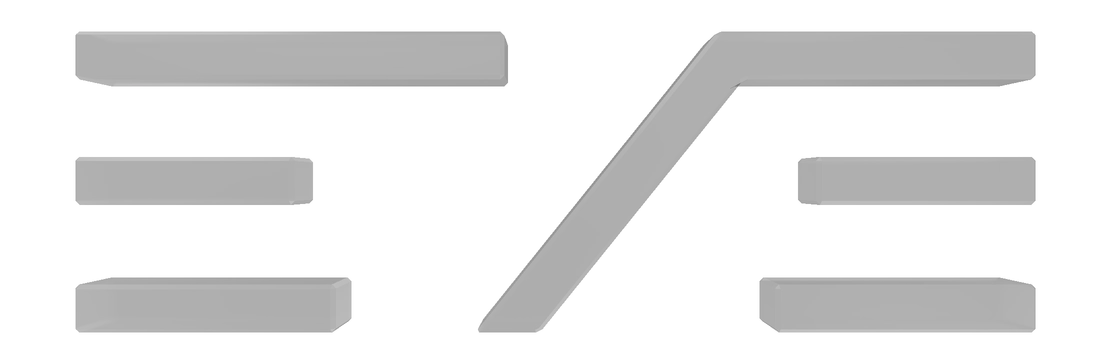
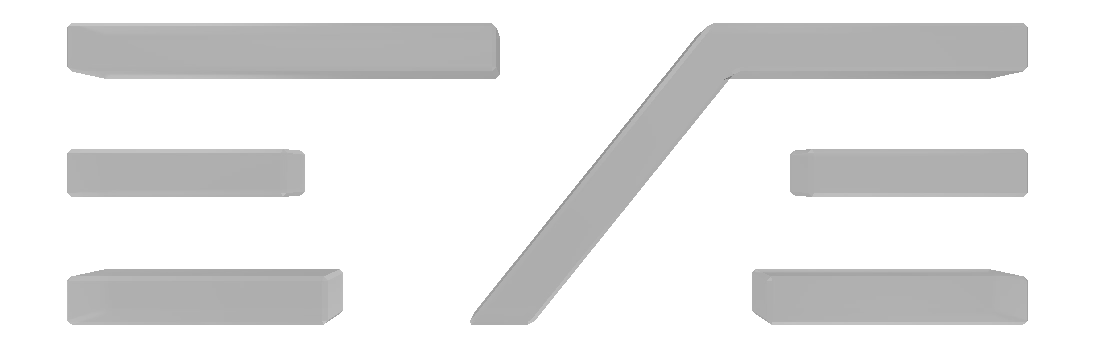
Bake eve fallback without bloom padding

diff --git a/apps/docs/scripts/render-eve-5.ts b/apps/docs/scripts/render-eve-5.ts
@@ -8,8 +8,10 @@
 //     -e VK_ICD_FILENAMES=/usr/share/vulkan/icd.d/lvp_icd.json \
 //     -e LIBGL_ALWAYS_SOFTWARE=1 \
 //     -e EVE_LOGO_RENDER_THEME=dark \
-//     -e EVE_LOGO_RENDER_WIDTH=2222 \
-//     -e EVE_LOGO_RENDER_HEIGHT=728 \
+//     -e EVE_LOGO_RENDER_WIDTH=1095 \
+//     -e EVE_LOGO_RENDER_HEIGHT=348 \
+//     -e EVE_LOGO_RENDER_PADDING=0 \
+//     -e EVE_LOGO_RENDER_BLOOM=0 \
 //     browser-webgpu-lab:native-vgpu-node \
 //     bash -lc 'xvfb-run -a bash -lc "NODE_OPTIONS=--loader=./scripts/wgsl-node-loader.mjs ./node_modules/.bin/tsx scripts/render-eve-5.ts"'
 //
@@ -17,9 +19,9 @@
 // Convert the generated tmp/eve-5-renders/<run>/output.png to the desired
 // public/eve-5/fallback-<theme>.webp with ImageMagick from the same container.
 // Set EVE_LOGO_RENDER_THEME=light|dark and EVE_LOGO_RENDER_WIDTH/HEIGHT when
-// baking production fallbacks. For a 1111x364 CSS canvas on DPR 2 screens,
-// render at 2222x728 and downsample the WebP to 1111x364 so the fixed 16px
-// bloom padding matches the live canvas in CSS pixels.
+// baking production fallbacks. Fallback images are content-only: render without
+// bloom or padding, then place them inside the padded canvas box in CSS so the
+// animated shader appears to "turn on" around the same logo geometry.
 
 import { createHash } from "node:crypto";
 import { readFile, mkdir, writeFile } from "node:fs/promises";
@@ -40,11 +42,13 @@ import {
 const RUN_ID = new Date().toISOString().replaceAll(":", "-").replace(".", "-");
 const OUT_DIR = resolve(process.cwd(), "tmp/eve-5-renders", RUN_ID);
 const FORMAT: GPUTextureFormat = "rgba8unorm";
-const OUTPUT_WIDTH = readPositiveIntegerEnv("EVE_LOGO_RENDER_WIDTH", 1111);
-const OUTPUT_HEIGHT = readPositiveIntegerEnv("EVE_LOGO_RENDER_HEIGHT", 364);
-const LOGICAL_WIDTH = Math.max(1, OUTPUT_WIDTH - BLOOM_RADIUS * 2);
-const LOGICAL_HEIGHT = Math.max(1, OUTPUT_HEIGHT - BLOOM_RADIUS * 2);
-const PADDED_SIZE = getPaddedRenderSize(LOGICAL_WIDTH, LOGICAL_HEIGHT);
+const PADDING_RADIUS = readNonNegativeIntegerEnv("EVE_LOGO_RENDER_PADDING", 0);
+const BLOOM_ENABLED = readBooleanEnv("EVE_LOGO_RENDER_BLOOM", false);
+const OUTPUT_WIDTH = readPositiveIntegerEnv("EVE_LOGO_RENDER_WIDTH", 1095, PADDING_RADIUS * 2);
+const OUTPUT_HEIGHT = readPositiveIntegerEnv("EVE_LOGO_RENDER_HEIGHT", 348, PADDING_RADIUS * 2);
+const LOGICAL_WIDTH = Math.max(1, OUTPUT_WIDTH - PADDING_RADIUS * 2);
+const LOGICAL_HEIGHT = Math.max(1, OUTPUT_HEIGHT - PADDING_RADIUS * 2);
+const PADDED_SIZE = getPaddedRenderSize(LOGICAL_WIDTH, LOGICAL_HEIGHT, PADDING_RADIUS);
 const WIDTH = PADDED_SIZE.width;
 const HEIGHT = PADDED_SIZE.height;
 const THEME = readThemeEnv();
@@ -69,7 +73,7 @@ async function main() {
   let renderer: ReturnType<typeof createEve5Renderer> | undefined;
 
   try {
-    renderer = createEve5Renderer(app.device, FORMAT, mesh, { theme: THEME });
+    renderer = createEve5Renderer(app.device, FORMAT, mesh, { theme: THEME, paddingRadius: PADDING_RADIUS, bloom: BLOOM_ENABLED });
     const output = await renderView(renderer, app.device, DEFAULT_CONTROLS, "output.png");
     await renderView(renderer, app.device, { ...DEFAULT_CONTROLS, yaw: -0.49, pitch: 0.31 }, "rotated.png");
     await renderView(renderer, app.device, { ...DEFAULT_CONTROLS, wireframe: true }, "wireframe.png");
@@ -79,8 +83,10 @@ async function main() {
       outDir: OUT_DIR,
       dimensions: { width: WIDTH, height: HEIGHT, format: FORMAT, theme: THEME },
       bloom: {
-        radius: BLOOM_RADIUS,
-        strength: BLOOM_STRENGTH,
+        enabled: BLOOM_ENABLED,
+        runtimeRadius: BLOOM_RADIUS,
+        radius: PADDING_RADIUS,
+        strength: BLOOM_ENABLED ? BLOOM_STRENGTH : 0,
         threshold: BLOOM_THRESHOLD,
         logical: { width: LOGICAL_WIDTH, height: LOGICAL_HEIGHT },
         padded: { width: WIDTH, height: HEIGHT },
@@ -144,14 +150,33 @@ async function loadMeshFromDisk(path: string) {
   });
 }
 
-function readPositiveIntegerEnv(name: string, fallback: number) {
+function readPositiveIntegerEnv(name: string, fallback: number, minimumExclusive = 0) {
   const value = process.env[name];
   if (!value) return fallback;
   const parsed = Number.parseInt(value, 10);
-  if (!Number.isFinite(parsed) || parsed <= BLOOM_RADIUS * 2) {
-    throw new Error(`${name} must be an integer greater than ${BLOOM_RADIUS * 2}.`);
+  if (!Number.isFinite(parsed) || parsed <= minimumExclusive) {
+    throw new Error(`${name} must be an integer greater than ${minimumExclusive}.`);
   }
   return parsed;
+}
+
+function readNonNegativeIntegerEnv(name: string, fallback: number) {
+  const value = process.env[name];
+  if (!value) return fallback;
+  const parsed = Number.parseInt(value, 10);
+  if (!Number.isFinite(parsed) || parsed < 0) {
+    throw new Error(`${name} must be a non-negative integer.`);
+  }
+  return parsed;
+}
+
+function readBooleanEnv(name: string, fallback: boolean) {
+  const value = process.env[name];
+  if (!value) return fallback;
+  const normalized = value.toLowerCase();
+  if (["1", "true", "yes", "on"].includes(normalized)) return true;
+  if (["0", "false", "no", "off"].includes(normalized)) return false;
+  throw new Error(`${name} must be a boolean value.`);
 }
 
 function readThemeEnv(): "light" | "dark" {

diff --git a/apps/docs/app/[lang]/(home)/components/eve-logo-shader/render.ts b/apps/docs/app/[lang]/(home)/components/eve-logo-shader/render.ts
@@ -91,13 +91,15 @@ export function createEve5Renderer(
   device: Device,
   format: GPUTextureFormat,
   mesh: MeshData,
-  options: { thicknessScale?: number; theme?: "light" | "dark" } = {},
+  options: { thicknessScale?: number; theme?: "light" | "dark"; paddingRadius?: number; bloom?: boolean } = {},
 ) {
   const studioCubemap = createStudioCubemap(device);
   renderStudioCubemap(device, studioCubemap);
   const orbitTarget = meshOrbitTarget(mesh);
   const thicknessScale = options.thicknessScale ?? meshThicknessScale(mesh.bounds);
   const isLight = options.theme === "light";
+  const paddingRadius = options.paddingRadius ?? BLOOM_RADIUS;
+  const bloomEnabled = options.bloom ?? true;
 
   const glassBackShader = device.createShader(compile(glassBackWgsl));
   const glassFrontShader = device.createShader(compile(glassFrontWgsl));
@@ -261,7 +263,7 @@ export function createEve5Renderer(
     size: 16,
     usage: ["uniform", "copy_dst"],
   });
-  compositeParamsBuffer.write(new Float32Array([BLOOM_STRENGTH, 0, 0, 0]));
+  compositeParamsBuffer.write(new Float32Array([bloomEnabled ? BLOOM_STRENGTH : 0, 0, 0, 0]));
   const blurSampler = device.gpu.createSampler({
     label: "eve-5-bloom-sampler",
     magFilter: "linear",
@@ -284,7 +286,7 @@ export function createEve5Renderer(
   let bloomTargets: BloomTargets | undefined;
 
   const writeParams = (target: { buffer: Buffer }, controls: RenderControls, logicalWidth: number, logicalHeight: number, passKind: number) => {
-    const padded = getPaddedRenderSize(logicalWidth, logicalHeight);
+    const padded = getPaddedRenderSize(logicalWidth, logicalHeight, paddingRadius);
     const fovRad = degreesToRadians(controls.fov);
     const verticalScale = padded.height / logicalHeight;
     const fovEff = 2 * Math.atan(verticalScale * Math.tan(fovRad * 0.5));
@@ -318,7 +320,7 @@ export function createEve5Renderer(
   };
 
   const ensureBloomTargets = (logicalWidth: number, logicalHeight: number) => {
-    const padded = getPaddedRenderSize(logicalWidth, logicalHeight);
+    const padded = getPaddedRenderSize(logicalWidth, logicalHeight, paddingRadius);
     if (bloomTargets?.width === padded.width && bloomTargets.height === padded.height) return bloomTargets;
     bloomTargets?.scene.destroy();
     bloomTargets?.backMaterial.destroy();
@@ -520,13 +522,13 @@ export function createEve5Renderer(
     pass.end();
   };
 
-  const renderComposite = (view: GPUTextureView, targets: BloomTargets) => {
+  const renderComposite = (view: GPUTextureView, targets: BloomTargets, bloomTexture: GPUTexture = targets.vertical) => {
     const bindGroup = device.gpu.createBindGroup({
       label: "eve-5-bloom-composite-bind-group",
       layout: compositePipeline.getBindGroupLayout(0),
       entries: [
         { binding: 0, resource: targets.scene.createView() },
-        { binding: 1, resource: targets.vertical.createView() },
+        { binding: 1, resource: bloomTexture.createView() },
         { binding: 2, resource: blurSampler },
         { binding: 3, resource: { buffer: compositeParamsBuffer.gpu } },
       ],
@@ -581,6 +583,10 @@ export function createEve5Renderer(
         renderLightComposite(target, targets);
         return;
       }
+      if (!bloomEnabled) {
+        renderComposite(target, targets, targets.scene);
+        return;
+      }
       renderBlur(targets.scene, targets.horizontal, [1, 0], true);
       renderBlur(targets.horizontal, targets.vertical, [0, 1], false);
       renderComposite(target, targets);
@@ -627,10 +633,11 @@ type BloomTargets = {
   vertical: GPUTexture;
 };
 
-export function getPaddedRenderSize(width: number, height: number) {
+export function getPaddedRenderSize(width: number, height: number, paddingRadius = BLOOM_RADIUS) {
+  const padding = Math.max(0, Math.round(paddingRadius)) * 2;
   return {
-    width: Math.max(1, Math.round(width)) + BLOOM_RADIUS * 2,
-    height: Math.max(1, Math.round(height)) + BLOOM_RADIUS * 2,
+    width: Math.max(1, Math.round(width)) + padding,
+    height: Math.max(1, Math.round(height)) + padding,
   };
 }
 

diff --git a/apps/docs/app/[lang]/(home)/components/eve-logo-shader/index.tsx b/apps/docs/app/[lang]/(home)/components/eve-logo-shader/index.tsx
@@ -17,10 +17,10 @@ class BrowserAdapter implements VGPUAdapter {
 const MODEL_URL = "/eve-5/eve-logo.gltf";
 const FALLBACK_DARK_IMAGE_URL = "/eve-5/fallback-dark.webp";
 const FALLBACK_LIGHT_IMAGE_URL = "/eve-5/fallback-light.webp";
-const FALLBACK_IMAGE_WIDTH = 1111;
-const FALLBACK_IMAGE_HEIGHT = 364;
+const FALLBACK_IMAGE_WIDTH = 1095;
+const FALLBACK_IMAGE_HEIGHT = 348;
 const FALLBACK_IMAGE_ASPECT_RATIO = `${FALLBACK_IMAGE_WIDTH} / ${FALLBACK_IMAGE_HEIGHT}`;
-const FALLBACK_IMAGE_SIZES = "(min-width: 768px) 1111px, 100vw";
+const FALLBACK_IMAGE_SIZES = "(min-width: 768px) 1095px, calc(100vw - 16px)";
 const DEFAULT_LOGO_ASPECT = 78 / 25;
 const DEFAULT_CONTROLS: RenderControls = {
   yaw: 0,
@@ -36,6 +36,7 @@ const DEFAULT_CONTROLS: RenderControls = {
 };
 const LOGO_RENDER_HEIGHT = 500;
 const MAX_DEVICE_PIXEL_RATIO = 2;
+const FALLBACK_IMAGE_PADDING = BLOOM_RADIUS / MAX_DEVICE_PIXEL_RATIO;
 const MAX_ENV_YAW = 0.45;
 const ENV_YAW_LERP_SPEED = 3;
 const CANVAS_FADE_FALLBACK_MS = 800;
@@ -279,16 +280,19 @@ function FallbackImage({
   className: string;
 }) {
   return (
-    <img
-      {...imageProps}
-      aria-hidden="true"
-      role="presentation"
-      decoding="async"
-      className={`${className} absolute left-1/2 top-0 h-full w-auto max-w-none -translate-x-1/2 transition-opacity duration-700 ease-linear ${
-        revealed ? "opacity-0" : "opacity-100"
-      }`}
-      style={{ aspectRatio: FALLBACK_IMAGE_ASPECT_RATIO }}
-    />
+    <div
+      className={`${className} absolute inset-0 transition-opacity duration-700 ease-linear ${revealed ? "opacity-0" : "opacity-100"}`}
+      style={{ padding: FALLBACK_IMAGE_PADDING }}
+    >
+      <img
+        {...imageProps}
+        aria-hidden="true"
+        role="presentation"
+        decoding="async"
+        className="mx-auto block h-full w-auto max-w-none"
+        style={{ aspectRatio: FALLBACK_IMAGE_ASPECT_RATIO }}
+      />
+    </div>
   );
 }
 
